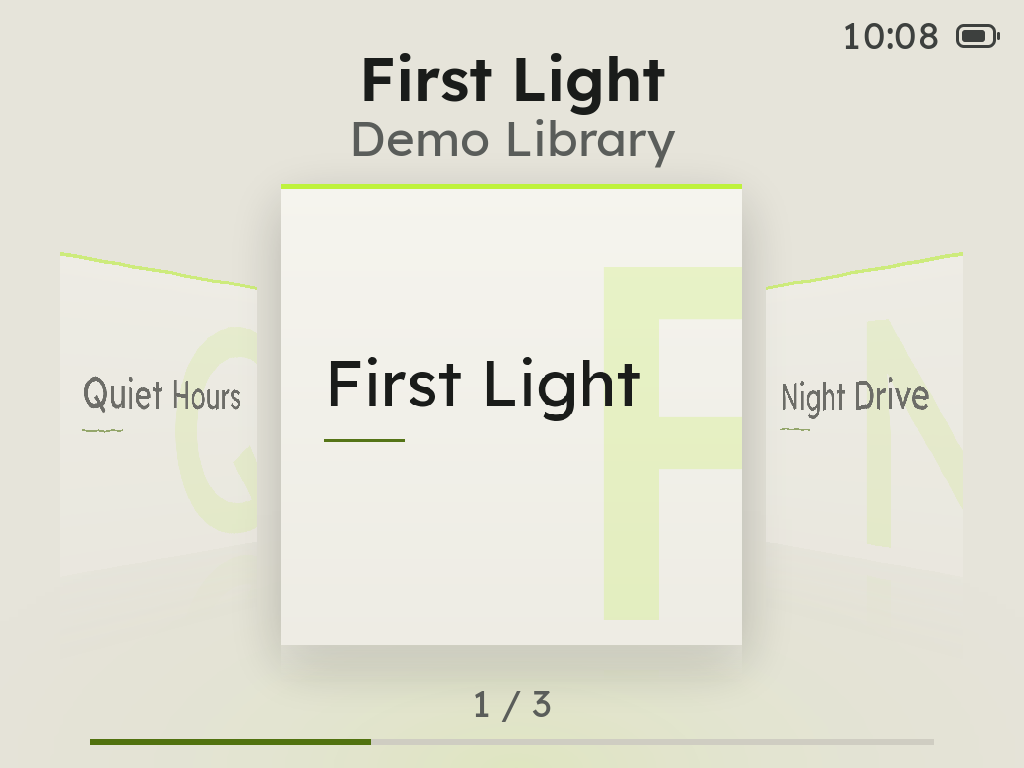
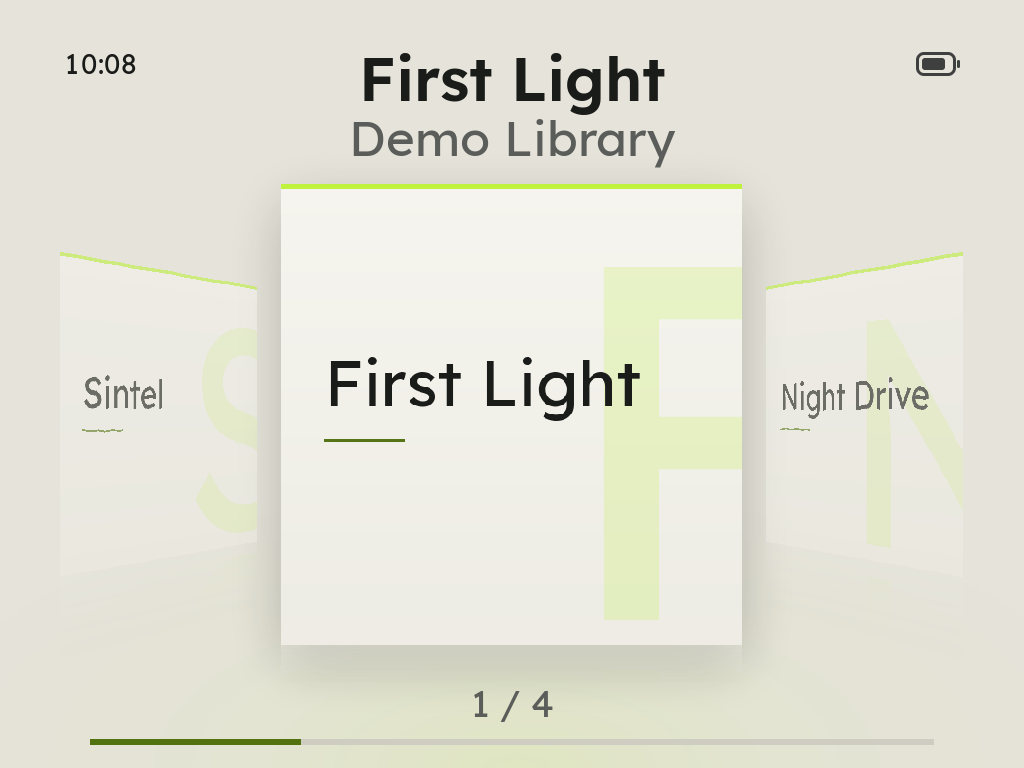
README and site: MP4's shelf and Now Playing with the top bar, the shelf on All

diff --git a/site/index.html b/site/index.html
@@ -319,7 +319,7 @@
     <figure class="shot" data-i="4" style="transform:translateX(-50%) translateX(206%) scale(0.5);opacity:0.35;z-index:7"><img src="img/cheevos.png" width="1024" height="768" alt="An achievements list" decoding="async"></figure>
     <figure class="shot" data-i="5" style="transform:translateX(-50%) translateX(250%) scale(0.4);opacity:0;z-index:6"><img src="img/menu.png" width="1024" height="768" alt="The ZyperOS menu" decoding="async"></figure>
     <figure class="shot" data-i="6" style="transform:translateX(-50%) translateX(250%) scale(0.4);opacity:0;z-index:5"><img src="img/scraper.png" width="1024" height="768" alt="MENU &gt; Scraper and the covers each source found" decoding="async"></figure>
-    <figure class="shot" data-i="7" style="transform:translateX(-50%) translateX(250%) scale(0.4);opacity:0;z-index:4"><img src="img/mp4.png" width="1024" height="768" alt="MP4&#x27;s shelf of albums" decoding="async"></figure>
+    <figure class="shot" data-i="7" style="transform:translateX(-50%) translateX(250%) scale(0.4);opacity:0;z-index:4"><img src="img/mp4.png" width="1024" height="768" alt="MP4&#x27;s shelf of albums and a film" decoding="async"></figure>
     <figure class="shot" data-i="8" style="transform:translateX(-50%) translateX(250%) scale(0.4);opacity:0;z-index:3"><img src="img/battery.png" width="1024" height="768" alt="MENU &gt; Battery Icon set to Time Left: the corner reads 3 h 25 min beside the battery" decoding="async"></figure>
     <figure class="shot" data-i="9" style="transform:translateX(-50%) translateX(250%) scale(0.4);opacity:0;z-index:2"><img src="img/gamemenu.png" width="1024" height="768" alt="The in-game menu on its Quick Slot row, slot 1" decoding="async"></figure>
     <figure class="shot" data-i="10" style="transform:translateX(-50%) translateX(250%) scale(0.4);opacity:0;z-index:1"><img src="img/controls-hotkeys.png" width="1024" height="768" alt="Controls: Hotkeys. SELECT with R1 and L1 quick save and load, with R2 and L2 faster and slower" decoding="async"></figure>

diff --git a/README.md b/README.md
@@ -35,7 +35,7 @@
     <td align="center"><img src="res/readme/menu.png" width="240" alt="The ZyperOS menu, Search Games at the top"><br><sub>The device's settings in one menu</sub></td>
   </tr>
   <tr>
-    <td align="center"><img src="res/readme/mp4.png" width="240" alt="MP4's shelf of albums"><br><sub>Your albums, in MP4</sub></td>
+    <td align="center"><img src="res/readme/mp4.png" width="240" alt="MP4's shelf of albums and a film, the clock at the top left"><br><sub>Your albums and films, in MP4</sub></td>
     <td align="center"><img src="res/readme/nowplaying.png" width="240" alt="MP4's Now Playing"><br><sub>Now Playing, on SELECT from anywhere</sub></td>
     <td align="center"><img src="res/readme/scraper.png" width="240" alt="MENU > Scraper: Fetch Missing Art, Video Snaps, and the covers ScreenScraper, libretro and SteamGridDB found"><br><sub>Box art from three sources</sub></td>
   </tr>
